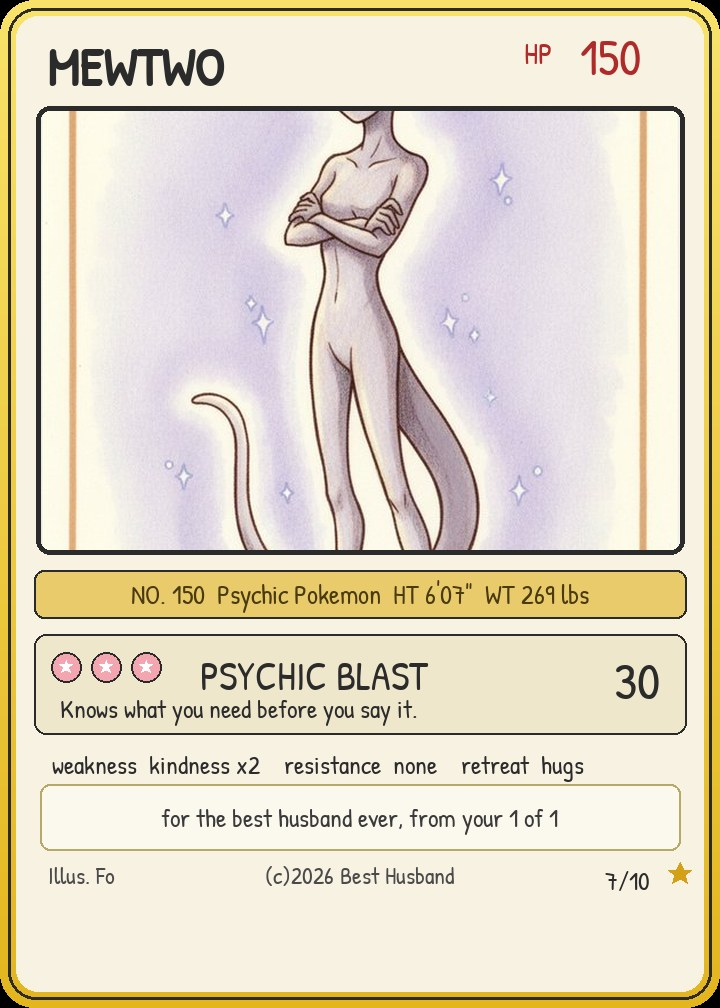
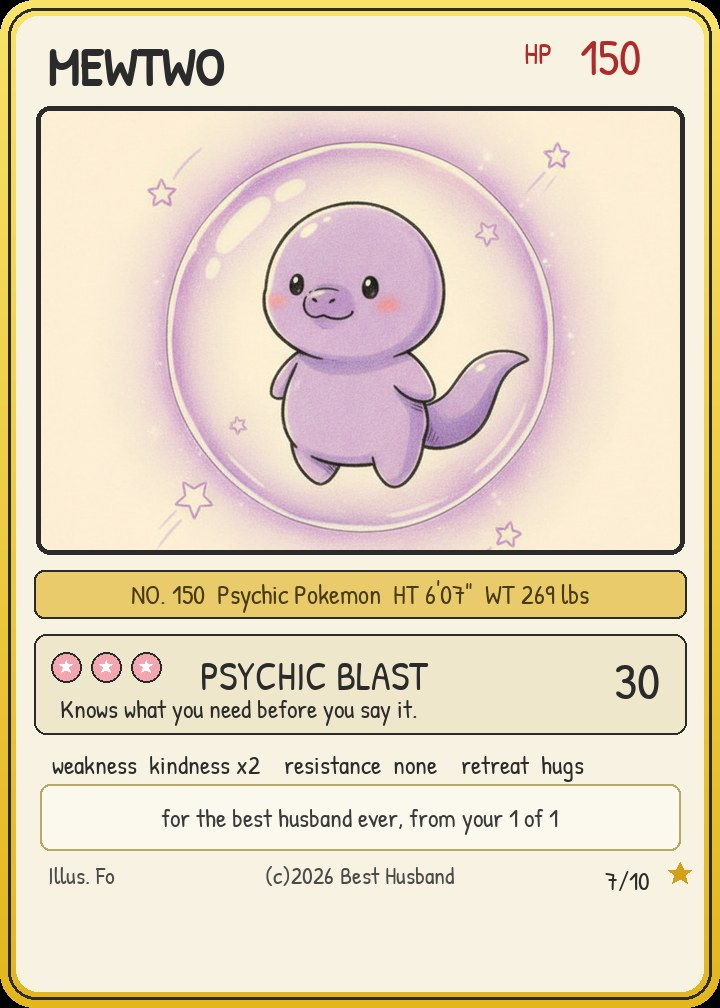
mewtwo bubble art + flip fix (gone class removed between cards)

Changed region(s): [[0.1528, 0.0923, 0.8556, 0.5536], [0.8556, 0.0923, 0.9167, 0.5536], [0.0917, 0.0923, 0.1222, 0.5536]]

diff --git a/index.html b/index.html
@@ -74,13 +74,13 @@ finale=document.getElementById('finale'),faceUp=document.querySelector('.face.ba
 function confetti(n){const cols=['#e8a3a3','#f2c94c','#7fb8d8','#b8e0a0','#e6b8d8'];for(let i=0;i<n;i++){const c=document.createElement('div');c.className='confetti';c.style.left=Math.random()*100+'vw';c.style.background=cols[i%cols.length];c.style.animationDuration=(2.2+Math.random()*1.6)+'s';c.style.animationDelay=(Math.random()*0.8)+'s';document.body.appendChild(c);setTimeout(()=>c.remove(),4500);}}
 pack.addEventListener('click',()=>{if(phase!=='pack')return;phase='opening';pack.style.animation='shake .55s ease-in-out';setTimeout(()=>{pack.style.animation='burst .5s ease-out forwards';setTimeout(()=>{pack.classList.add('hidden');hint.classList.add('hidden');showCard();},480);},560);});
 function showCard(){phase='cards';idx=0;flipped=false;cardArea.classList.remove('hidden');inner.style.transform='rotateY(0)';cardImg.src='assets/cardback.jpg';badge.classList.add('hidden');faceUp.classList.remove('shine');caption.textContent='tap to flip';card.classList.add('pop');}
-function nextCard(){idx++;flipped=false;if(idx>=cards.length){cardArea.classList.add('hidden');finale.classList.remove('hidden');confetti(80);return;}inner.style.transform='rotateY(0)';cardImg.src='assets/cardback.jpg';badge.classList.add('hidden');faceUp.classList.remove('shine');card.classList.add('pop');caption.textContent=(idx===cards.length-1)?'one more\u2026':'tap to flip';}
+function nextCard(){idx++;flipped=false;card.classList.remove('gone');if(idx>=cards.length){cardArea.classList.add('hidden');finale.classList.remove('hidden');confetti(80);return;}inner.style.transform='rotateY(0)';cardImg.src='assets/cardback.jpg';badge.classList.add('hidden');faceUp.classList.remove('shine');card.classList.add('pop');caption.textContent=(idx===cards.length-1)?'one more\u2026':'tap to flip';}
 card.addEventListener('click',()=>{if(phase!=='cards')return;
  if(!flipped){flipped=true;const c=cards[idx];inner.style.transform='rotateY(180deg)';setTimeout(()=>{cardImg.src=c.img;if(c.rare){badge.classList.remove('hidden');faceUp.classList.add('shine');}},380);caption.textContent=(idx===cards.length-1)?'one more\u2026':'tap for the next one';}
  else{card.classList.add('gone');}
 });
 document.getElementById('again').addEventListener('click',()=>location.reload());
-card.addEventListener('animationend',e=>{if(e.animationName==='pop')card.classList.remove('pop');if(e.animationName==='gone')nextCard();});
+card.addEventListener('animationend',e=>{if(e.animationName==='pop')card.classList.remove('pop');if(e.animationName==='gone'){card.classList.remove('gone');nextCard();}});
 cards.forEach(c=>{const i=new Image();i.src=c.img;});new Image().src='assets/cardback.jpg';
 </script>
 </body>
